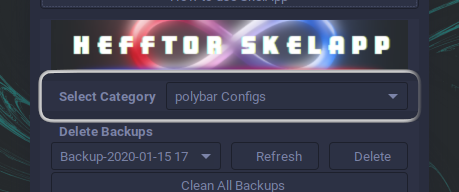
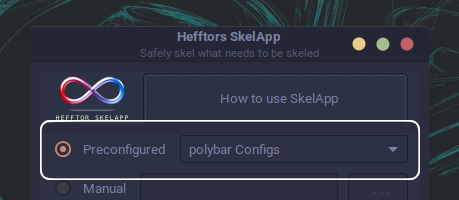
updated

diff --git a/usr/share/Hefftor SkelApp/Help.py b/usr/share/Hefftor SkelApp/Help.py
@@ -112,6 +112,52 @@ you want to apply from <span foreground='cyan' weight='bold'>/etc/skel</span> to
         self.listview2.add(self.listRow2)
 
         # ===========================================
+        #				MENU A Section
+        # ===========================================
+        self.listview1a = Gtk.ListBox()
+        self.listview1a.set_selection_mode(Gtk.SelectionMode.NONE)
+        self.hvbox.pack_start(self.listview1a, True, True, 0)
+
+        # ListRow 1
+        self.listRow1a = Gtk.ListBoxRow()
+        self.listRowTitle = Gtk.ListBoxRow()
+        self.hbox1a = Gtk.Box(
+            orientation=Gtk.Orientation.HORIZONTAL, spacing=10)
+        self.listRow1a.add(self.hbox1a)
+
+        # ListRow 1 Elements
+        self.label1a = Gtk.Label(xalign=0)
+        self.label1a.set_line_wrap(True)
+        self.label1a.set_markup(
+            "Or now you have the option to manually navigate to the file or folder you wish to <span foreground='cyan' weight='bold'>Skel</span> \n\
+Simply click on <span foreground='cyan' weight='bold'>manual</span> radio button and select from the buttons below the textbox if you wish to skel a file or folder.\
+\nSee image below.")
+
+        self.hbox1a.pack_start(self.label1a, False, False, 0)
+        self.listview1a.add(self.listRow1a)
+        # ===========================================
+        #				Example #2 Section
+        # ===========================================
+
+        self.listview2a = Gtk.ListBox()
+        self.listview2a.set_selection_mode(Gtk.SelectionMode.NONE)
+        self.hvbox.pack_start(self.listview2a, True, True, 0)
+
+        # ListRow 2
+        self.listRow2a = Gtk.ListBoxRow()
+        self.hbox2a = Gtk.Box(
+            orientation=Gtk.Orientation.HORIZONTAL, spacing=10)
+        self.listRow2a.add(self.hbox2a)
+
+        # ListRow 2 Elements
+        self.image1a = Gtk.Image()
+        self.image1a.set_from_file(
+            os.path.join(base_dir, 'images/ex1.1.png'))
+
+        self.hbox2a.pack_start(self.image1a, False, False, 0)
+        self.listview2a.add(self.listRow2a)
+
+        # ===========================================
         #				Example #3 Section
         # ===========================================
         self.listview3 = Gtk.ListBox()
@@ -136,8 +182,12 @@ you want to apply from <span foreground='cyan' weight='bold'>/etc/skel</span> to
         self.label3 = Gtk.Label(xalign=0)
         self.label3.set_line_wrap(True)
         self.label3.set_markup(
-            "Now that we have our category from the dropdown menu selected, its time we run the application. \
-Click <span foreground='cyan' weight='bold'>Run Skel</span> button to apply the dotfiles from \
+            "Now that we have our category from the dropdown menu selected or we have navigated \
+to the file or folder using the <span foreground='cyan' weight='bold'>manual</span> option, its time we run the application. \
+\nBut first we have a toggle button above the <span foreground='cyan' weight='bold'>Run Skel</span> button, this will offer \
+you the freedom to choose if you wish to run backup before the files are copied from \
+<span foreground='cyan' weight='bold'>/etc/skel/</span> to your home directory.\n\
+Now we can click <span foreground='cyan' weight='bold'>Run Skel</span> button to apply the dotfiles from \
 <span foreground='cyan' weight='bold'>/etc/skel</span> to your home directory")
 
         self.hboxTitle2.pack_start(self.labelTitle2, False, False, 0)
@@ -193,9 +243,11 @@ Click <span foreground='cyan' weight='bold'>Run Skel</span> button to apply the 
         self.label5.set_markup(
             "When the application is opened and you click <span foreground='cyan' weight='bold'>Run Skel</span> \
 for the first time. The application will do a full backup of <span foreground='cyan' weight='bold'>.config, \
-.local, .conkyrc and .bashrc</span>. The backups are listed in the backup section of the application.\n\
-After selecting a backup from the dropdown list, Clicking <span foreground='cyan' weight='bold'>Delete\
-</span> button will remove all backups contained within the backup directory for that hour.\n\
+.local, .conkyrc and .bashrc</span> if you have the <span foreground='cyan' weight='bold'>Run Backup toggle enabled</span>.\
+The backups are listed in the backup section of the application. After selecting a backup from the dropdown list, \
+you will see the second dropdown below the first populated with the backups contained in the main backup directory \
+Clicking <span foreground='cyan' weight='bold'>Delete</span> button will remove the selected folder/file within the \
+dropdown on the buttons row.\n\
 <span foreground='cyan' weight='bold' size='large' stretch='semiexpanded'><u>EXAMPLE</u></span>\n\
 <b>Backup-2020-01-15 23</b>\n2020-01-15 = the date of the backup\n23 = the hour of the \
 backup\nSo every backup made within that hour will be placed in that folder.")

diff --git a/usr/share/Hefftor SkelApp/Hefftor_SkelApp.py b/usr/share/Hefftor SkelApp/Hefftor_SkelApp.py
@@ -1,7 +1,6 @@
 #!/usr/bin/env python3
 import Functions
 import Help
-import ImageX
 
 import threading
 import datetime
@@ -52,6 +51,7 @@ class HSApp(Gtk.Window):
         # self.connect("check_resize", self.on_check_resize)
         self.firstrun = 0
         self.ecode = 0
+        self.browser = 0
 
         hb = Gtk.HeaderBar()
         hb.props.show_close_button = True
@@ -332,11 +332,15 @@ class HSApp(Gtk.Window):
             self.browse.set_sensitive(True)
             self.rbutton3.set_sensitive(True)
             self.rbutton4.set_sensitive(True)
+            self.cat.set_sensitive(False)
+            self.browser = 1
         else:
             self.textBox.set_sensitive(False)
             self.rbutton3.set_sensitive(False)
             self.rbutton4.set_sensitive(False)
             self.browse.set_sensitive(False)
+            self.cat.set_sensitive(True)
+            self.browser = 0
 
     def on_browse_fixed(self, widget):
         if self.rbutton3.get_active():
@@ -430,14 +434,14 @@ class HSApp(Gtk.Window):
 
         Functions.setMessage(self, "Upgrading Bashrc")
 
+        if os.path.isfile("/etc/skel/.inputrc-latest"):
+            shutil.copy("/etc/skel/.inputrc-latest", home + "/.inputrc")
+            shutil.copy("/etc/skel/.inputrc-latest",
+                        home + "/.inputrc-latest")
+
         if os.path.isfile("/etc/skel/.bashrc-latest"):
             shutil.copy("/etc/skel/.bashrc-latest", home + "/.bashrc")
             shutil.copy("/etc/skel/.bashrc-latest", home + "/.bashrc-latest")
-
-            if os.path.isfile("/etc/skel/.inputrc-latest"):
-                shutil.copy("/etc/skel/.inputrc-latest", home + "/.inputrc")
-                shutil.copy("/etc/skel/.inputrc-latest",
-                            home + "/.inputrc-latest")
 
             Functions.setMessage(self, ".bashrc upgrade done")
             Functions.callBox(self, "bashrc upgraded", "Success!!")
@@ -467,12 +471,13 @@ class HSApp(Gtk.Window):
         if passes == True:
 
             self.button_toggles(False)
-            if self.switch.get_active():
+            if self.switch.get_active() and self.firstrun == 0:                
                 Functions.setMessage(self, "Running Backup")
                 t1 = threading.Thread(target=Functions.processing,
-                                      args=(self, text,))
+                                    args=(self, text,))
                 t1.daemon = True
                 t1.start()
+                self.firstrun = 1
             else:
                 Functions.run(self, text)
         else:
@@ -487,6 +492,8 @@ class HSApp(Gtk.Window):
         self.btn9.set_sensitive(state)
         self.btn4.set_sensitive(state)
         self.btn10.set_sensitive(state)
+        if self.browser == 1:
+            self.browse.set_sensitive(state)
 
 # =========================================================================================================
 #			                       FUNCTIONS Section

diff --git a/usr/share/Hefftor SkelApp/Functions.py b/usr/share/Hefftor SkelApp/Functions.py
@@ -451,6 +451,7 @@ def run(self, cat):
                 if os.path.isfile(old):
                     shutil.copy(old, new)
         else:
+            self.ecode = 0
             old = cat.replace(" \'", "").replace("\'","").replace("[","").replace("]","")
             new = old.replace("/etc/skel",home)
             if os.path.isdir(old):
